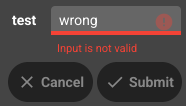
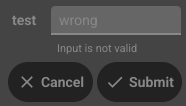
widget: a disabled Form disables its fields and draws its labels disabled (#1403)
Form.Disable disabled only the submit and cancel buttons. A disabled
container's cascade disables the Form and does not look inside it ("a
disableable widget disables its own parts", container/disable.go), so a
form in a disabled tab kept enabled-looking fields and full-colour labels,
while widget/disabled_look.go already lists Form among the widgets that
disable the children that draw the disabled colours. Measured while
auditing #1393: the labels' brightest pixel was 0.888 before and after.

Disable now disables each enabled item widget, recording it, and Enable
switches back on only those, so an item the app disabled itself stays
disabled (as ButtonGroup and the container cascade do); an item appended
while disabled is disabled at the next refresh. Item labels take the
disabled colour while the form is disabled, also for an item that cannot
be disabled, and so do the hint and validation lines.

Disable now refreshes the form, which exposed a layout gap: when a field's
helper line appeared or went on a validation change, nothing laid the form
out again, so a resize to the same size kept the old layout (the buttons
pushed down and cut off in disable_validation_disabled_valid). The
validation callback now refreshes the form when the line's visibility
changes.

Three form goldens change as intended (disabled labels, fields and helper
text). New tests: items disabled and restored, the app's own disabled item
[…]

Changed region(s): [[0.2688, 0.1132, 0.9946, 0.3396], [0.2957, 0.3962, 0.7527, 0.5094], [0.0538, 0.1415, 0.1882, 0.2547]]

diff --git a/widget/form.go b/widget/form.go
@@ -69,6 +69,10 @@ type Form struct {
 	submitButton *Button
 
 	disabled bool
+	// disabledItems holds the item widgets Disable switched off, for Enable
+	// to switch back on: an item the app disabled itself stays disabled
+	// (#1403).
+	disabledItems []core.Disableable
 
 	onValidationChanged func(error)
 	validationError     error
@@ -111,6 +115,7 @@ func (f *Form) Refresh() {
 	f.ExtendBaseWidget(f)
 	cache.Renderer(f.super()) // we are about to make changes to renderer created content... not great!
 	f.ensureRenderItems()
+	f.disableItems() // one appended while disabled
 	f.updateButtons()
 	f.updateLabels()
 
@@ -124,31 +129,60 @@ func (f *Form) Refresh() {
 	canvas.Refresh(f.super()) // refresh ourselves for BG color - the above updates the content
 }
 
-// Enable enables submitting this form.
+// Enable enables the form: its buttons, and the items Disable disabled. An
+// item the app disabled itself stays disabled.
 //
 // Since: 1.0
 func (f *Form) Enable() {
 	f.disabled = false
+	for _, d := range f.disabledItems {
+		d.Enable()
+	}
+	f.disabledItems = nil
 	if f.cancelButton == nil {
 		return // not rendered yet: CreateRenderer applies the state
 	}
 	f.cancelButton.Enable()
 	f.checkValidation(nil) // as the form may be invalid
+	f.Refresh()
 }
 
-// Disable disables submitting this form.
+// Disable disables the form: submitting it, and every item widget that can
+// be disabled, as a disabled container does with its content. The labels and
+// helper text take the disabled colour. It disabled only the submit and cancel
+// buttons, so a form in a disabled tab kept live-looking fields and labels
+// (#1403). An item added while the form is disabled is disabled when the form
+// next refreshes.
 //
 // Since: 1.0
 func (f *Form) Disable() {
 	f.disabled = true
+	f.disableItems()
 	if f.cancelButton == nil {
 		return // not rendered yet: CreateRenderer applies the state
 	}
 	f.submitButton.Disable()
 	f.cancelButton.Disable()
+	f.Refresh()
 }
 
-// Disabled returns whether submitting the form is disabled.
+// disableItems disables, and records, each enabled item widget while the form
+// is disabled.
+func (f *Form) disableItems() {
+	if !f.disabled {
+		return
+	}
+	for _, item := range f.Items {
+		d, ok := item.Widget.(core.Disableable)
+		if !ok || d.Disabled() {
+			continue // not disableable, or the app's own, or ours already
+		}
+		d.Disable()
+		f.disabledItems = append(f.disabledItems, d)
+	}
+}
+
+// Disabled returns whether the form is disabled.
 // Note that, if the form fails validation, the submit button may be
 // disabled even if this method returns true.
 //
@@ -327,7 +361,11 @@ func (f *Form) setUpValidation(widget core.CanvasObject, i int) {
 		f.Items[i].invalid = err != nil
 		f.setValidationError(err)
 		f.checkValidation(err)
-		f.updateHelperText(f.Items[i])
+		if f.updateHelperText(f.Items[i]) {
+			// The item grew or shrank by the helper line: lay the form out
+			// again, or a same-size resize leaves the old layout (#1403).
+			f.Refresh()
+		}
 	}
 	if w, ok := widget.(bellui.Validatable); ok {
 		f.Items[i].invalid = w.Validate() != nil
@@ -366,13 +404,16 @@ func (f *Form) setValidationError(err error) {
 	}
 }
 
-func (f *Form) updateHelperText(item *FormItem) {
+// updateHelperText sets an item's hint or validation message, and reports
+// whether the line was shown or hidden by it.
+func (f *Form) updateHelperText(item *FormItem) bool {
 	th := f.Theme()
 	v := bellui.CurrentApp().Settings().ThemeVariant()
 
 	if item.helperOutput == nil {
-		return // testing probably, either way not rendered yet
+		return false // testing probably, either way not rendered yet
 	}
+	wasVisible := item.helperOutput.Visible()
 	showHintIfError := false
 	if e, ok := item.Widget.(*Entry); ok {
 		if !e.dirty || (e.focused && !item.wasFocused) {
@@ -390,6 +431,9 @@ func (f *Form) updateHelperText(item *FormItem) {
 		item.helperOutput.Text = item.validationError.Error()
 		item.helperOutput.Color = th.Color(theme.ColorNameError, v)
 	}
+	if f.disabled {
+		item.helperOutput.Color = th.Color(theme.ColorNameDisabled, v) // #1403
+	}
 
 	if item.helperOutput.Text == "" {
 		item.helperOutput.Hide()
@@ -397,6 +441,7 @@ func (f *Form) updateHelperText(item *FormItem) {
 		item.helperOutput.Show()
 	}
 	item.helperOutput.Refresh()
+	return item.helperOutput.Visible() != wasVisible
 }
 
 func (f *Form) updateLabels() {
@@ -417,14 +462,9 @@ func (f *Form) updateLabels() {
 			continue
 		}
 		l.TextSize = th.Size(theme.SizeNameText)
-		if dis, ok := item.Widget.(core.Disableable); ok {
-			if dis.Disabled() {
-				l.Color = th.Color(theme.ColorNameDisabled, v)
-			} else {
-				l.Color = th.Color(theme.ColorNameOnSurface, v)
-			}
-		} else {
-			l.Color = th.Color(theme.ColorNameOnSurface, v)
+		l.Color = th.Color(theme.ColorNameOnSurface, v)
+		if dis, ok := item.Widget.(core.Disableable); f.disabled || ok && dis.Disabled() {
+			l.Color = th.Color(theme.ColorNameDisabled, v)
 		}
 
 		l.Text = item.Text

diff --git a/widget/form_disable_items_internal_test.go b/widget/form_disable_items_internal_test.go
@@ -1,0 +1,79 @@
+package widget
+
+import (
+	"testing"
+
+	"github.com/stretchr/testify/assert"
+
+	"github.com/belluikit/bellui"
+	"github.com/belluikit/bellui/canvas"
+	"github.com/belluikit/bellui/test"
+	"github.com/belluikit/bellui/theme"
+)
+
+// formLabelColor is the colour item i's label is drawn in.
+func formLabelColor(f *Form, i int) any {
+	return f.itemGrid.Objects[i*2].(*bellui.Container).Objects[0].(*canvas.Text).Color
+}
+
+// Disable disables the form's items too, as a disabled container does its
+// content, and its labels take the disabled colour; it disabled only the
+// submit and cancel buttons, so a form in a disabled tab kept live-looking
+// fields and labels (#1403). Enable brings back only what Disable switched
+// off: an item the app disabled itself stays disabled.
+func TestForm_DisableDisablesItems(t *testing.T) {
+	test.NewTempApp(t)
+	name, email, own := NewEntry(), NewEntry(), NewEntry()
+	own.Disable() // the app's own
+	f := NewForm(NewFormItem("Name", name), NewFormItem("Email", email), NewFormItem("Own", own))
+	f.OnSubmit = func() {}
+	w := test.NewTempWindow(t, f)
+	_ = w
+	onSurface := theme.Color(theme.ColorNameOnSurface)
+	disabled := theme.Color(theme.ColorNameDisabled)
+	assert.Equal(t, onSurface, formLabelColor(f, 0))
+	assert.Equal(t, disabled, formLabelColor(f, 2), "the app's disabled item")
+
+	f.Disable()
+	assert.True(t, name.Disabled())
+	assert.True(t, email.Disabled())
+	for i := range f.Items {
+		assert.Equal(t, disabled, formLabelColor(f, i), "label %d", i)
+	}
+
+	extra := NewEntry()
+	f.Append("Extra", extra)
+	assert.True(t, extra.Disabled(), "an item added while disabled is disabled")
+
+	f.Enable()
+	assert.False(t, name.Disabled())
+	assert.False(t, email.Disabled())
+	assert.False(t, extra.Disabled())
+	assert.True(t, own.Disabled(), "the app disabled it, so it stays disabled")
+	assert.Equal(t, onSurface, formLabelColor(f, 0))
+	assert.Equal(t, disabled, formLabelColor(f, 2))
+}
+
+// A form disabled before it is drawn draws disabled.
+func TestForm_DisableBeforeDrawn(t *testing.T) {
+	test.NewTempApp(t)
+	e := NewEntry()
+	f := NewForm(NewFormItem("Name", e))
+	f.Disable()
+	assert.True(t, e.Disabled())
+	test.NewTempWindow(t, f)
+	assert.Equal(t, theme.Color(theme.ColorNameDisabled), formLabelColor(f, 0))
+}
+
+// An item that cannot be disabled, such as a Label, still gets its form label
+// in the disabled colour while the form is disabled.
+func TestForm_DisableLabelsItemsThatCannotBeDisabled(t *testing.T) {
+	test.NewTempApp(t)
+	f := NewForm(NewFormItem("Plain", NewLabel("read-only value")))
+	test.NewTempWindow(t, f)
+	assert.Equal(t, theme.Color(theme.ColorNameOnSurface), formLabelColor(f, 0))
+	f.Disable()
+	assert.Equal(t, theme.Color(theme.ColorNameDisabled), formLabelColor(f, 0))
+	f.Enable()
+	assert.Equal(t, theme.Color(theme.ColorNameOnSurface), formLabelColor(f, 0))
+}

diff --git a/changelog.d/1403.changed.md b/changelog.d/1403.changed.md
@@ -1,0 +1,11 @@
+* **A disabled `Form` disables its fields and draws its labels disabled**
+  ([#1403](https://github.com/belluikit/bellui/issues/1403)). `Form.Disable`
+  disabled only the submit and cancel buttons, so a form in a disabled tab,
+  which the tab disables as a whole, kept live-looking fields and labels at
+  full colour. It now disables every item widget that can be disabled, as a
+  disabled container does its content, and draws the item labels and their
+  hint and validation text in the disabled colour; `Enable` switches back on
+  only the items `Disable` switched off, so a field the app disabled itself
+  stays disabled. A form also lays itself out again when a field's hint or
+  error line appears or goes, where a resize to the same size had left the
+  old layout.
